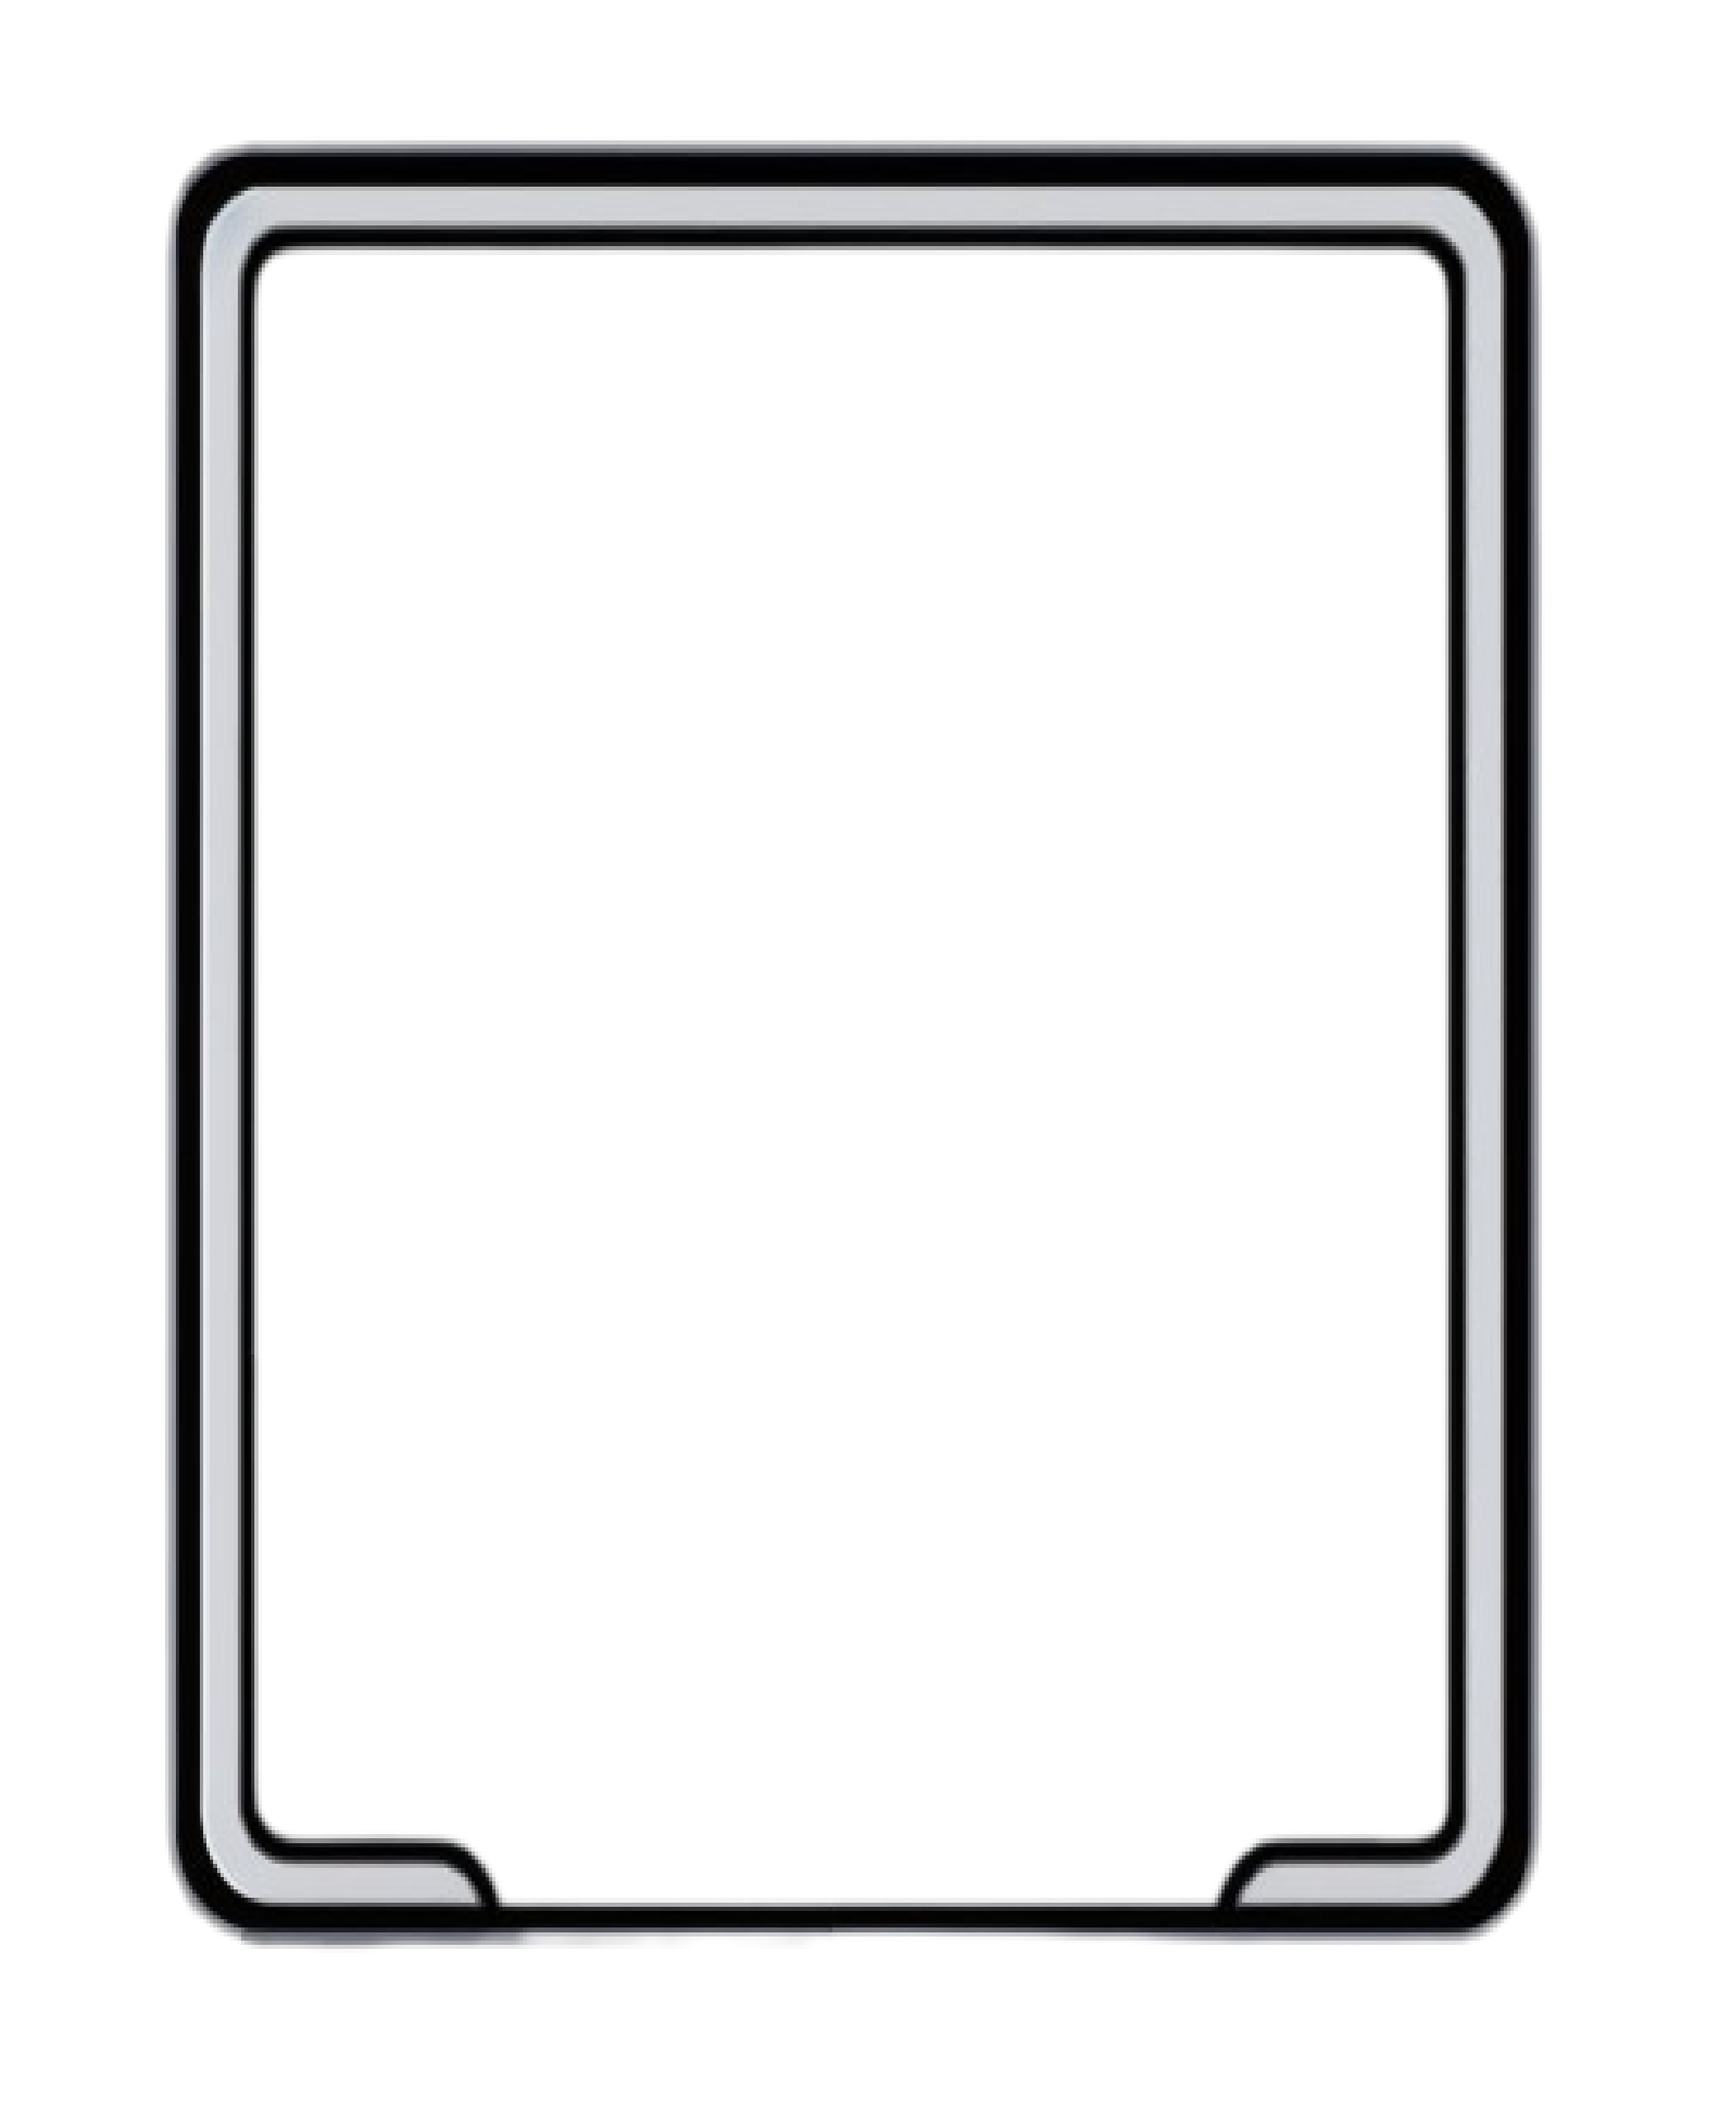
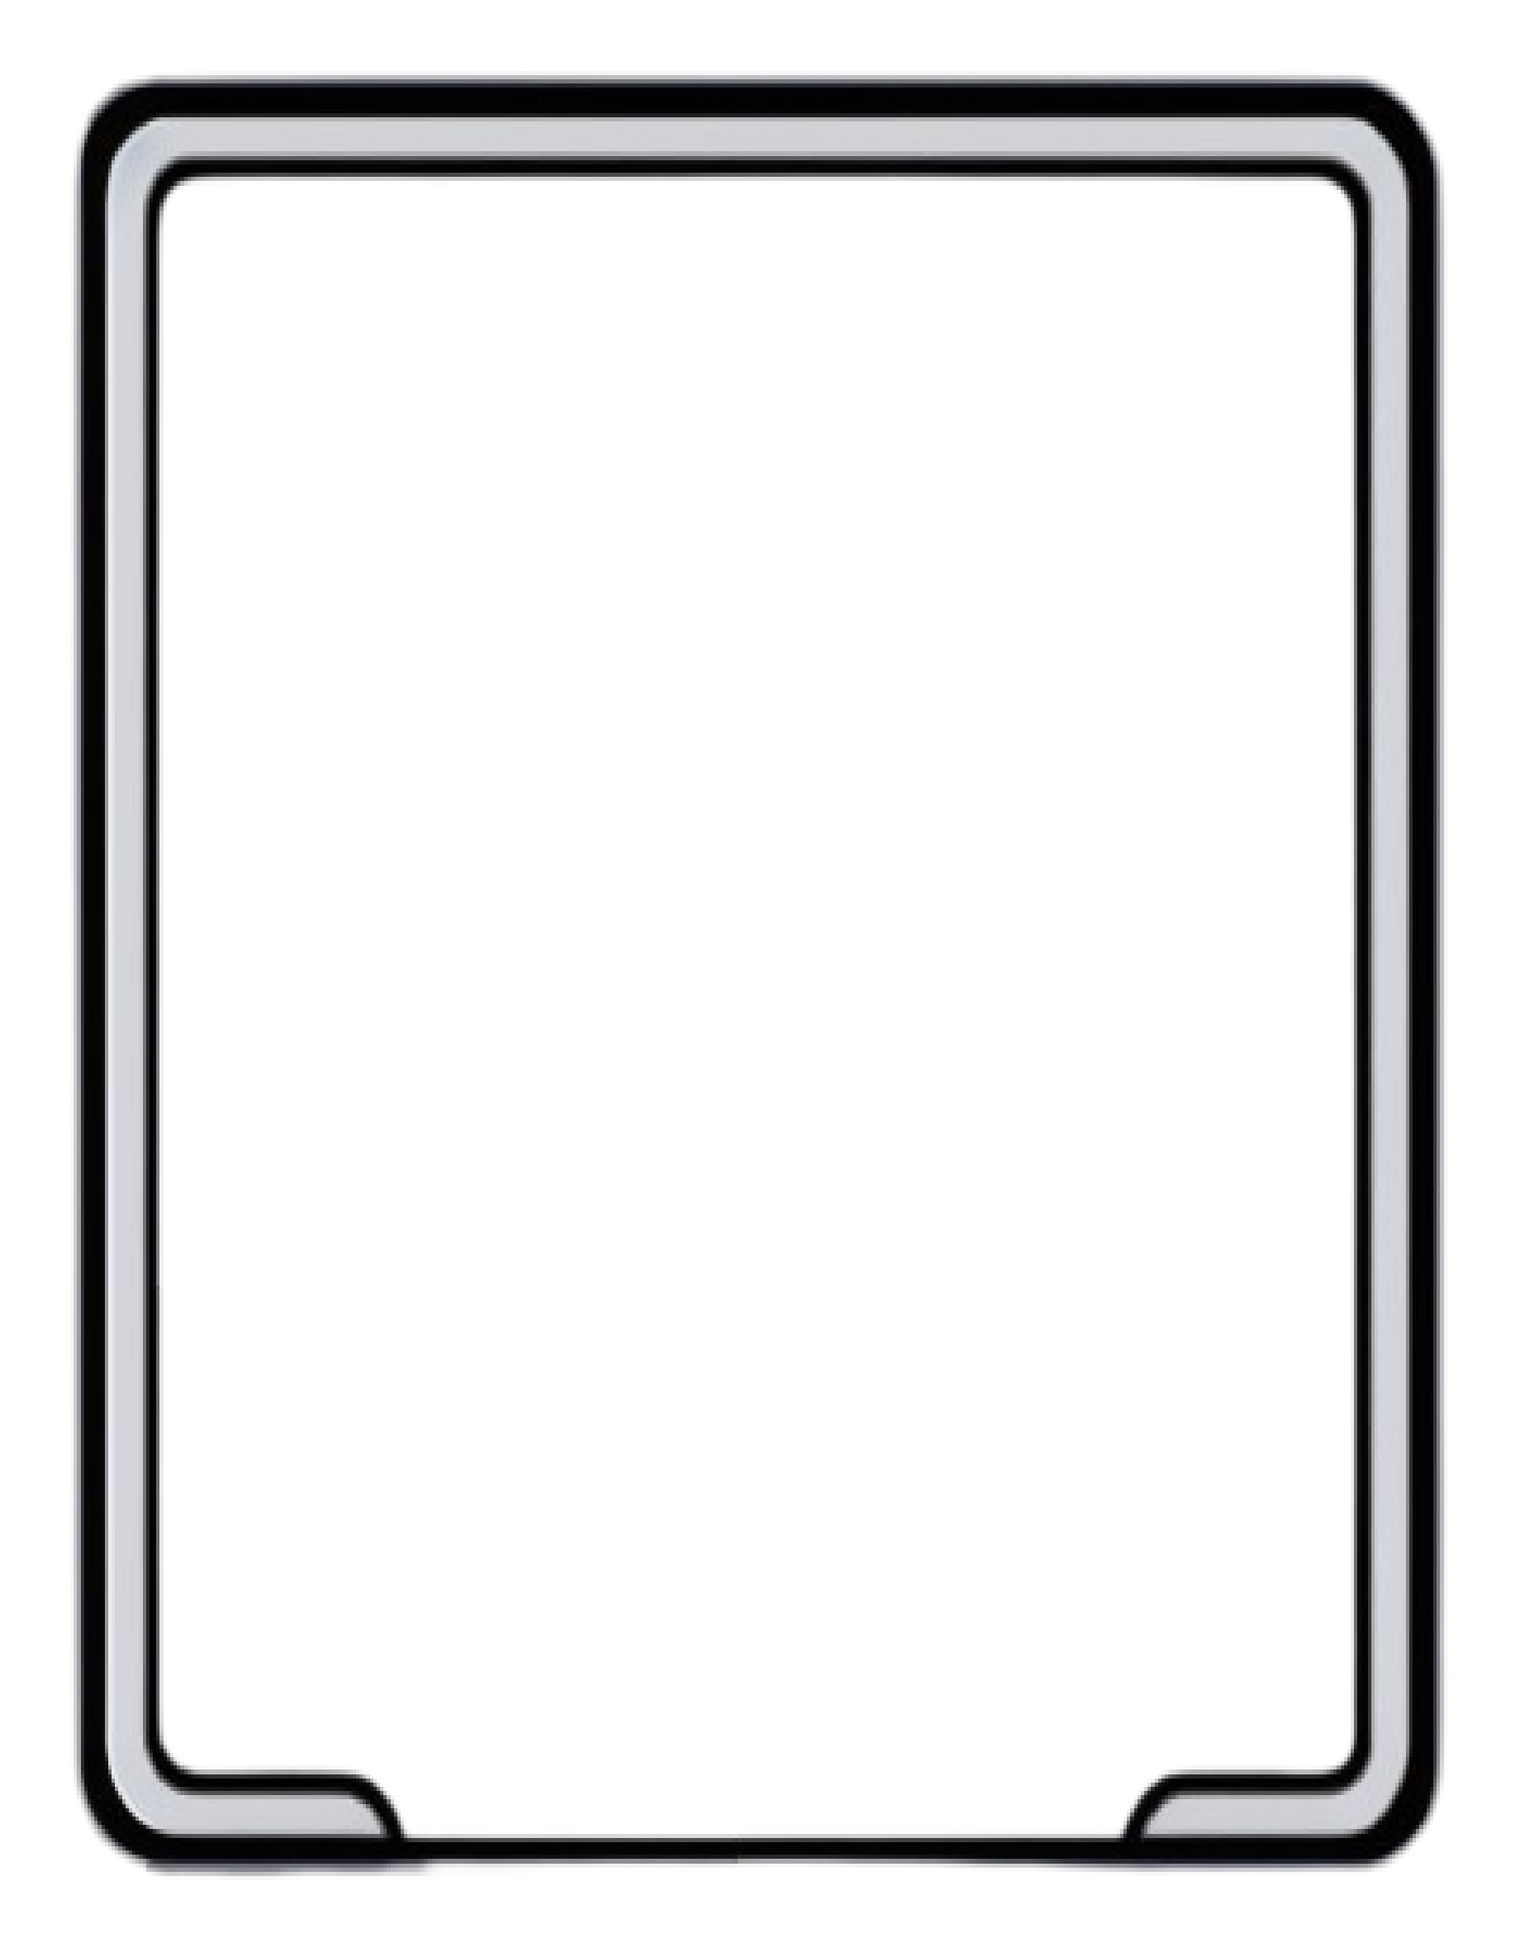
get UI and logic with pets display and rarity frames

Changed region(s): [[0.0311, 0.0312, 0.9651, 0.9683]]

diff --git a/src/screens/CollectionScreen.js b/src/screens/CollectionScreen.js
@@ -6,6 +6,7 @@ import { getAuth } from "firebase/auth"
 import { useEffect, useState } from "react"
 import 'react-native-get-random-values'
 import { v4 as uuidv4 } from 'uuid'
+import PETS from "../../petsData"
 
 export default function CollectionScreen () {
 	const [petsOwned, setPetsOwned] = useState([])
@@ -53,12 +54,22 @@ export default function CollectionScreen () {
 }
 
 function petDisplay ({item}) {
-	console.log(item.rarity)
+	const petImage = PETS[item.name].image
+	const frameImage = item.rarity === "Common" 
+		? require("../../assets/frames/Common.png")
+		: item.rarity === "Uncommon"
+		? require("../../assets/frames/Uncommon.png")
+		: item.rarity === "Rare"
+		? require("../../assets/frames/Rare.png")
+		: item.rarity === "Epic"
+		? require("../../assets/frames/Epic.png")
+		: require("../../assets/frames/Legendary.png")
+	
 	return (
 		<View key={uuidv4()} style={{padding: 5}}>
 			<Text>{item.name}</Text>
-			<ImageBackground style={{width: 110, height: 145}} source={{ uri: item.image}}>
-				<Image style={{width: 120, height: 160, position: "absolute", left: -5, top: -5}} source={require(`../../assets/frames/${item.rarity}.png`)} />
+			<ImageBackground style={{width: 105, height: 140}} source={petImage}>
+				<Image style={{width: 120, height: 160, position: "absolute", left: -5, top: -10}} source={frameImage} />
 			</ImageBackground>
 		</View>
 	)

diff --git a/petsData.js b/petsData.js
@@ -1,0 +1,20 @@
+const PETS = {
+    cosmic1: {
+        image: require("./assets/pets/cosmic1.png"),
+        rarity: "Uncommon"
+    },
+    cosmic2: {
+        image: require("./assets/pets/cosmic2.png"),
+        rarity: "Rare"
+    },
+    cosmic3: {
+        image: require("./assets/pets/cosmic3.png"),
+        rarity: "Epic"
+    },
+    cosmic4: {
+        image: require("./assets/pets/cosmic4.png"),
+        rarity: "Legendary"
+    }
+}
+
+export default PETS

diff --git a/src/screens/ShopScreen.js b/src/screens/ShopScreen.js
@@ -16,7 +16,7 @@ export default function ShopScreen () {
 			<Text>Shop</Text>
 			<ScrollView style={{flex: 1}} showsVerticalScrollIndicator={false}>
 				<View style={{flexDirection: "row"}}>
-					<EggDisplay imageSource={green} rarity="Common" cost={400}/>
+					<EggDisplay imageSource={green} rarity="Uncommon" cost={400}/>
 					<EggDisplay imageSource={blue} rarity="Rare" cost={1000}/>
 				</View>
 				<View style={{flexDirection: "row"}}>

diff --git a/src/components/EggDisplay.js b/src/components/EggDisplay.js
@@ -4,7 +4,7 @@ import { FIREBASE_DB } from '../../firebaseConfig'
 import { getAuth } from 'firebase/auth'
 
 const PETS_DATA = {
-  Common: ["cosmic2"],
+  Uncommon: ["cosmic2"],
   Rare: ["cosmic4"],
   Epic: ["cosmic1"],
   Legendary: ["cosmic3"]
